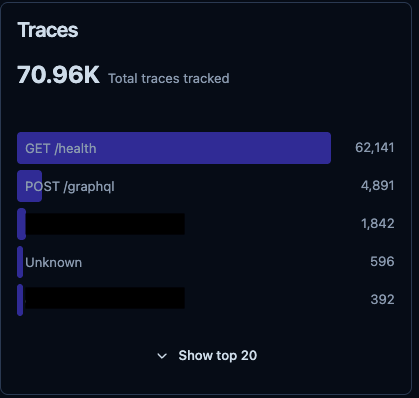
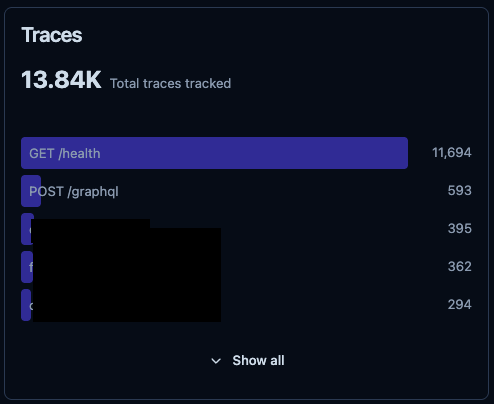
fix

Changed region(s): [[0.0, 0.0, 0.9928, 0.995], [0.3723, 0.8744, 0.6205, 0.9045]]

diff --git a/articles/27d88bb974b52d.md b/articles/27d88bb974b52d.md
@@ -22,7 +22,7 @@ OpenTelemetry の仕組みにより、上流に設置すると枝葉の関数や
 
 Dashboardで確認したところ、以下のような統計が表示されました。
 以下は32141
-![Langfuse_pic1](/images/Langfuse_pic1.png)
+![langfuse_pic1](/images/Langfuse_pic1.png)
 
 上位２つの Trace は LLM 呼び出しに関係のないものですが、ご覧の通り稼働サーバーに対して定期的にアクセスが来るものにまで Trace が紐づけられてしまっています。
 
@@ -63,7 +63,7 @@ return new LangfuseSpanProcessor({
 
 これで、しばらく運用した際に Trace の数が減少していることが確認できました。
 
-![Langfuse_pic1](/images/Langfuse_pic2.png)
+![langfuse_pic1](/images/Langfuse_pic2.png)
 
 まだ `GET /health`と `POST /graphql` が残っていますが、設定してから1ヶ月経過仕切っていないため 1ヶ月区切りでみたときに対象に入っているためです。
 
